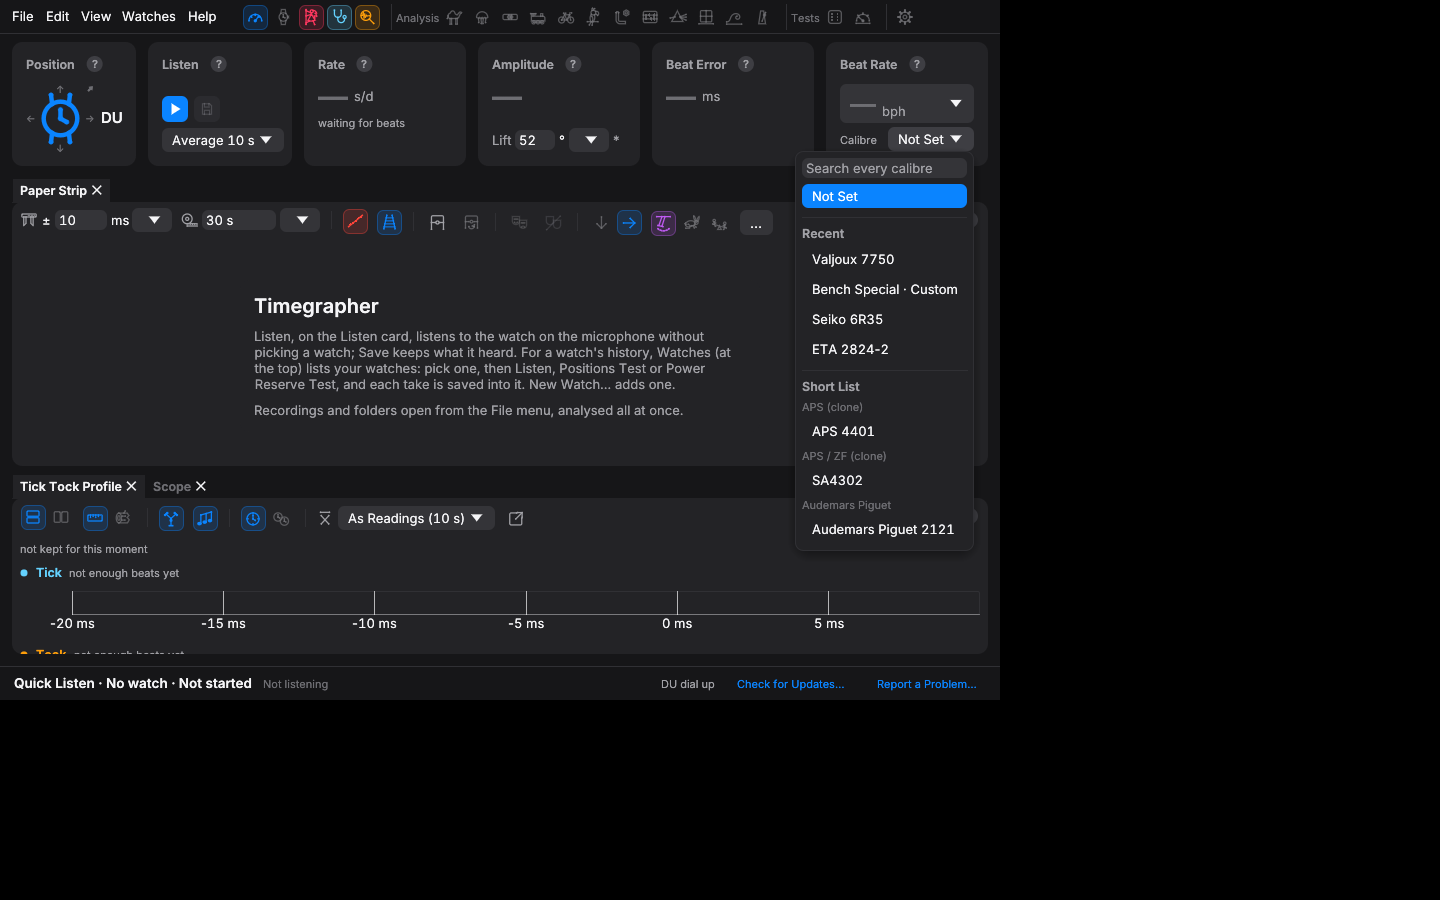
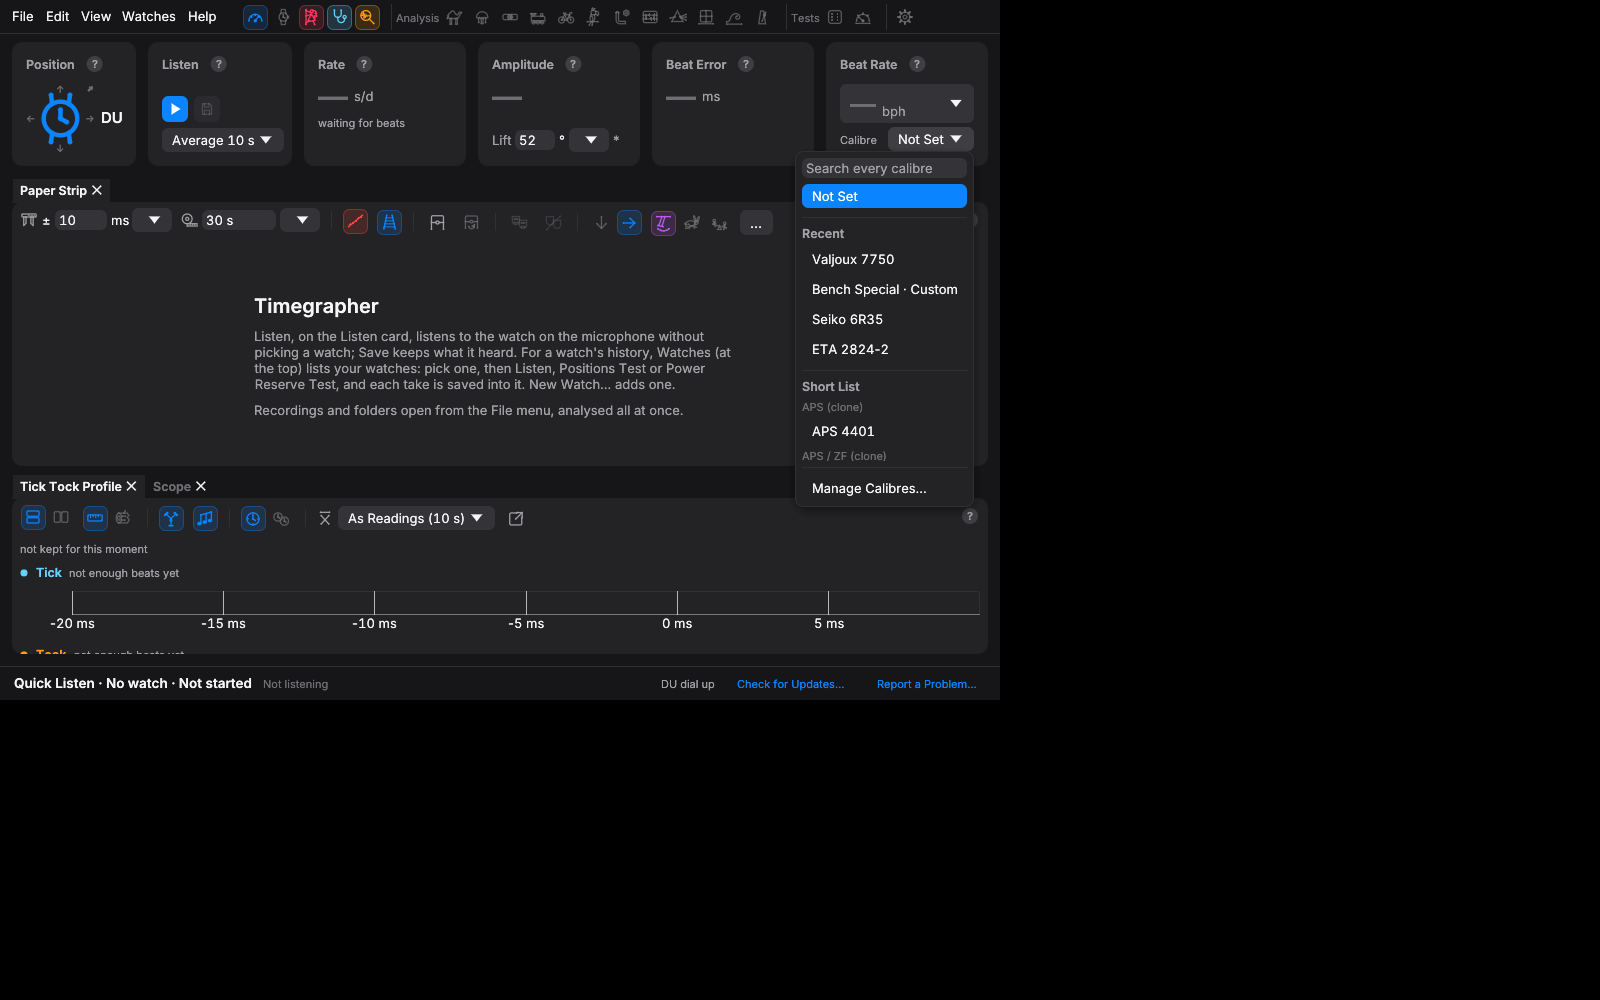
Calibre menu keeps Manage Calibres… in view
The menu's list scrolls on its own between the search field and Manage
Calibres…, so a long Short List no longer pushes Manage Calibres… out of
sight. New test: manage_calibres_stays_in_view_under_a_long_short_list.

Claude-Session: https://claude.ai/code/session_01GsSg6RBnTb5YLpmgbJGamZ

diff --git a/crates/timegrapher-app/src/calibre_ui.rs b/crates/timegrapher-app/src/calibre_ui.rs
@@ -404,8 +404,9 @@ impl Calibres {
     }
 
     /// The Calibre menu, short: Not Set, the recent picks, the short list
-    /// and the user's own calibres, with Manage Calibres… at its foot for
-    /// the rest. What was picked ("" for Not Set), if anything.
+    /// and the user's own calibres, with Manage Calibres… pinned at its
+    /// foot, below the scrolling list, for the rest. What was picked ("" for
+    /// Not Set), if anything.
     pub fn picker(&mut self, ui: &mut egui::Ui, current: &str) -> Option<String> {
         let pal = theme::pal(ui);
         let shown = match self.find(current) {
@@ -416,10 +417,16 @@ impl Calibres {
         let mut manage = false;
         let catalog = Catalog::new(&self.user);
         let mut typed = std::mem::take(&mut self.menu_search);
+        // egui makes a menu no taller than its default area; the list
+        // scrolls inside that, leaving room for the search field above and
+        // Manage Calibres… below, so the menu itself never scrolls.
+        let menu_h =
+            (ui.ctx().content_rect().height() * 0.7).min(ui.spacing().default_area_size.y - 16.0);
+        let list_h = (menu_h - 110.0).max(120.0);
         {
             egui::ComboBox::from_id_salt("calibre")
                 .width(ui.available_width())
-                .height(ui.ctx().content_rect().height() * 0.7)
+                .height(menu_h)
                 .truncate()
                 .selected_text(shown)
                 .show_ui(ui, |ui| {
@@ -449,90 +456,94 @@ impl Calibres {
                         search.request_focus();
                     }
                     let q = typed.trim();
-                    if !q.is_empty() {
-                        let found = catalog.search(q);
-                        if found.is_empty() {
-                            ui.label(
-                                RichText::new("No calibre matches. Manage Calibres… can add it.")
+                    // The list scrolls between the search field and Manage
+                    // Calibres…, so both stay in view however long the
+                    // Short List grows.
+                    egui::ScrollArea::vertical()
+                        .id_salt("calibre list")
+                        .max_height(list_h)
+                        .min_scrolled_height(list_h)
+                        .auto_shrink([false, true])
+                        .show(ui, |ui| {
+                            if !q.is_empty() {
+                                let found = catalog.search(q);
+                                if found.is_empty() {
+                                    ui.label(
+                                        RichText::new(
+                                            "No calibre matches. Manage Calibres… can add it.",
+                                        )
+                                        .small()
+                                        .color(pal.text_tertiary),
+                                    );
+                                }
+                                const MOST: usize = 200;
+                                for e in found.iter().take(MOST) {
+                                    let text = match e {
+                                        Entry::Table(c) => format!("{} · {}", c.calibre, c.maker),
+                                        Entry::Custom(_) => label(*e),
+                                    };
+                                    line(ui, *e, text);
+                                }
+                                if found.len() > MOST {
+                                    ui.label(
+                                        RichText::new(format!(
+                                            "{} more: type more of the name to narrow it down.",
+                                            found.len() - MOST
+                                        ))
+                                        .small()
+                                        .color(pal.text_tertiary),
+                                    );
+                                }
+                                return;
+                            }
+                            if ui
+                                .selectable_label(current.is_empty(), "Not Set")
+                                .on_hover_text(
+                                    "Name cycles after the wheels most calibres at this beat rate \
+                             share, with the default lift angle",
+                                )
+                                .clicked()
+                            {
+                                *picked.borrow_mut() = Some(String::new());
+                            }
+                            let recent: Vec<Entry<'_>> =
+                                self.recent.iter().filter_map(|r| catalog.find(r)).collect();
+                            if !recent.is_empty() {
+                                heading(ui, "Recent");
+                                for e in recent {
+                                    line(ui, e, label(e));
+                                }
+                            }
+                            heading(ui, "Short List");
+                            let mut any = false;
+                            for (maker, _, list) in by_maker() {
+                                let short: Vec<&&Calibre> =
+                                    list.iter().filter(|c| self.in_short(c)).collect();
+                                if short.is_empty() {
+                                    continue;
+                                }
+                                any = true;
+                                ui.label(RichText::new(*maker).small().color(pal.text_tertiary));
+                                for c in short {
+                                    line(ui, Entry::Table(c), c.calibre.clone());
+                                }
+                            }
+                            if !any {
+                                ui.label(
+                                    RichText::new(
+                                        "Empty: tick calibres in Manage Calibres to put them here.",
+                                    )
                                     .small()
                                     .color(pal.text_tertiary),
-                            );
-                        }
-                        const MOST: usize = 200;
-                        for e in found.iter().take(MOST) {
-                            let text = match e {
-                                Entry::Table(c) => format!("{} · {}", c.calibre, c.maker),
-                                Entry::Custom(_) => label(*e),
-                            };
-                            line(ui, *e, text);
-                        }
-                        if found.len() > MOST {
-                            ui.label(
-                                RichText::new(format!(
-                                    "{} more: type more of the name to narrow it down.",
-                                    found.len() - MOST
-                                ))
-                                .small()
-                                .color(pal.text_tertiary),
-                            );
-                        }
-                        ui.separator();
-                        if ui
-                            .selectable_label(false, "Manage Calibres…")
-                            .on_hover_text(MANAGE_HINT)
-                            .clicked()
-                        {
-                            manage = true;
-                        }
-                        return;
-                    }
-                    if ui
-                        .selectable_label(current.is_empty(), "Not Set")
-                        .on_hover_text(
-                            "Name cycles after the wheels most calibres at this beat rate \
-                             share, with the default lift angle",
-                        )
-                        .clicked()
-                    {
-                        *picked.borrow_mut() = Some(String::new());
-                    }
-                    let recent: Vec<Entry<'_>> =
-                        self.recent.iter().filter_map(|r| catalog.find(r)).collect();
-                    if !recent.is_empty() {
-                        heading(ui, "Recent");
-                        for e in recent {
-                            line(ui, e, label(e));
-                        }
-                    }
-                    heading(ui, "Short List");
-                    let mut any = false;
-                    for (maker, _, list) in by_maker() {
-                        let short: Vec<&&Calibre> =
-                            list.iter().filter(|c| self.in_short(c)).collect();
-                        if short.is_empty() {
-                            continue;
-                        }
-                        any = true;
-                        ui.label(RichText::new(*maker).small().color(pal.text_tertiary));
-                        for c in short {
-                            line(ui, Entry::Table(c), c.calibre.clone());
-                        }
-                    }
-                    if !any {
-                        ui.label(
-                            RichText::new(
-                                "Empty: tick calibres in Manage Calibres to put them here.",
-                            )
-                            .small()
-                            .color(pal.text_tertiary),
-                        );
-                    }
-                    if !self.user.custom.is_empty() {
-                        heading(ui, "Custom");
-                        for c in &self.user.custom {
-                            line(ui, Entry::Custom(c), c.name.clone());
-                        }
-                    }
+                                );
+                            }
+                            if !self.user.custom.is_empty() {
+                                heading(ui, "Custom");
+                                for c in &self.user.custom {
+                                    line(ui, Entry::Custom(c), c.name.clone());
+                                }
+                            }
+                        });
                     ui.separator();
                     if ui
                         .selectable_label(false, "Manage Calibres…")
@@ -2293,5 +2304,54 @@ mod menu_search_tests {
             "{want} not in {:?}",
             texts(&found)
         );
+    }
+
+    #[test]
+    fn manage_calibres_stays_in_view_under_a_long_short_list() {
+        let mut c = Calibres::in_memory();
+        for x in calibres::all() {
+            c.set_short(&x.calibre, true);
+        }
+        let ctx = egui::Context::default();
+        crate::theme::install(&ctx);
+        let screen = egui::Rect::from_min_size(egui::Pos2::ZERO, egui::vec2(600.0, 600.0));
+        let frame = |c: &mut Calibres, events: Vec<egui::Event>| {
+            ctx.run(
+                egui::RawInput {
+                    screen_rect: Some(screen),
+                    events,
+                    ..Default::default()
+                },
+                |ctx| {
+                    egui::CentralPanel::default().show(ctx, |ui| {
+                        ui.set_width(300.0);
+                        c.picker(ui, "");
+                    });
+                },
+            )
+        };
+        frame(&mut c, vec![]);
+        let at = egui::pos2(60.0, 18.0);
+        let press = |pressed| egui::Event::PointerButton {
+            pos: at,
+            button: egui::PointerButton::Primary,
+            pressed,
+            modifiers: Default::default(),
+        };
+        frame(&mut c, vec![egui::Event::PointerMoved(at), press(true)]);
+        frame(&mut c, vec![press(false)]);
+        for _ in 0..10 {
+            frame(&mut c, vec![]);
+        }
+        let open = frame(&mut c, vec![]);
+        // Drawn, and inside what its clip lets the eye see.
+        let seen = open.shapes.iter().any(|s| match &s.shape {
+            egui::Shape::Text(x) if x.galley.text() == "Manage Calibres…" => {
+                let r = x.visual_bounding_rect();
+                s.clip_rect.contains_rect(r) && screen.contains_rect(r)
+            }
+            _ => false,
+        });
+        assert!(seen, "Manage Calibres… scrolled out of view");
     }
 }

diff --git a/docs/app.md b/docs/app.md
@@ -1108,7 +1108,8 @@ folder can't be moved while another copy has it open. The Watches pane adds watc
     type into, lists every calibre matching a name, another name or the
     maker (the first 200, with how many more). Empty, the menu offers Not
     Set, then **Recent**, the **Short List** by maker and **Custom** (your
-    own calibres), with **Manage Calibres…** at its foot, which opens
+    own calibres). The list scrolls between the search field and
+    **Manage Calibres…**, which stays at the menu's foot and opens
     Settings at Calibres, and as a button under it. Recent is the 6
     calibres the app was last set to, by a pick in the menu, a watch or
     take opened, or a take saved: the latest first, none twice, never
